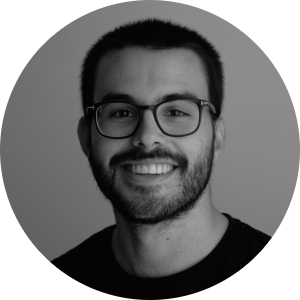
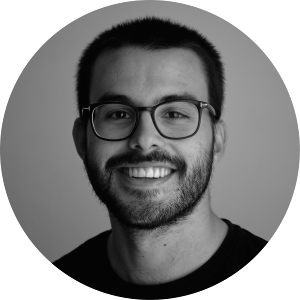
Description and profile photo updated

diff --git a/index.html b/index.html
@@ -43,7 +43,7 @@
                                         <name>Daniel Uroz</name>
                                     </p>
                                     <p>
-                                        I am a first year Computer Security Ph.D. student at <a
+                                        I am a Computer Security Ph.D. student at <a
                                             href="https://reversea.me" target="_blank">RME</a>, a part of the <a
                                             href="http://webdiis.unizar.es/DISCO/" target="_blank">Distributed Computing
                                             Group (DisCo)</a> research group from <a href="http://www.unizar.es/"
